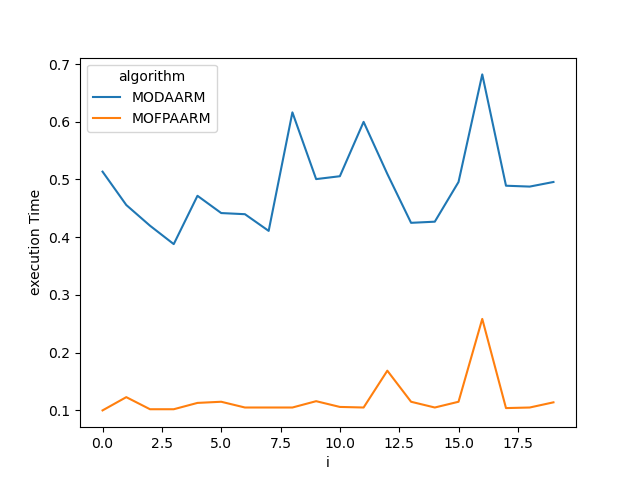
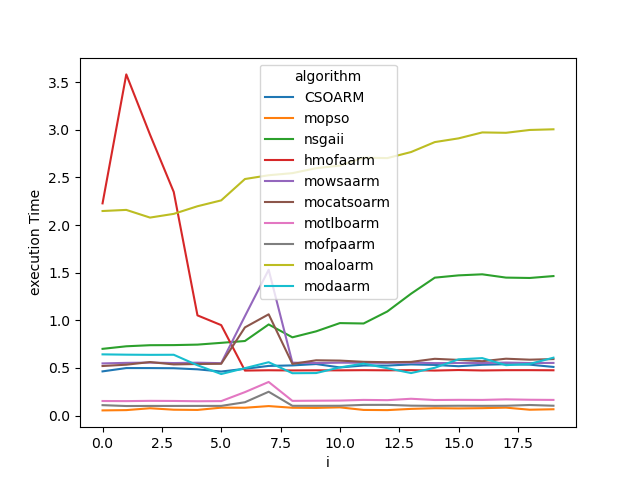
change example figure

diff --git a/main.py b/main.py
@@ -19,8 +19,8 @@ nbIteration = 20
 populationSize = 200
 objectiveNames = ['support','confidence','klosgen']
 criterionList = ['scores','execution time']
-algorithmNameList = ['MODAARM','MOFPAARM']
-#algorithmNameList = ['CSOARM','mopso','nsgaii','hmofaarm','mowsaarm','mocatsoarm','motlboarm']
+#algorithmNameList = ['MODAARM','MOFPAARM']
+algorithmNameList = ['CSOARM','mopso','nsgaii','hmofaarm','mowsaarm','mocatsoarm','motlboarm','mofpaarm','moaloarm','modaarm']
 
 perf = Performances(algorithmNameList,criterionList,objectiveNames)
 data = pd.read_csv('Data/congress.csv')
@@ -38,8 +38,8 @@ mofpaarm = MOFPAARM(data.shape[1],populationSize,nbIteration,len(objectiveNames)
 moaloarm = MOALOARM(data.shape[1],populationSize,nbIteration,len(objectiveNames),objectiveNames,data,save=True,display=False,path='Figures/MOALOARM/')
 modaarm = MODAARM(data.shape[1],populationSize,nbIteration,len(objectiveNames),objectiveNames,data,save=True,display=False,path='Figures/MODAARM/')
 
-#algorithmList = [csoarm,mopso,nsgaii,hmofaarm,mowsaarm,mocatsoarm,motlboarm]
-algorithmList = [modaarm,mofpaarm]
+algorithmList = [csoarm,mopso,nsgaii,hmofaarm,mowsaarm,mocatsoarm,motlboarm,mofpaarm,moaloarm,modaarm]
+#algorithmList = [modaarm,mofpaarm]
 for i in range(nbIteration):
     k = 0
     for alg in algorithmList:
@@ -49,11 +49,11 @@ for i in range(nbIteration):
         print(algorithmNameList[k])
         print(alg.fitness.paretoFront)
         k+=1
-    graph = Graphs(objectiveNames,perf.scores,path='./Figures/Comparison/paretoFront'+str(i),display=False)
+    graph = Graphs(objectiveNames,perf.scores,path='./Figures/Comparison/paretoFront'+str(i),display=True)
     graph.GraphScores()
     perf.UpdateLeaderBoard()
     perf.FreeScores()
-graph = Graphs(['execution Time'],perf.executionTime,path='./Figures/Comparison/execution_time')
+graph = Graphs(['execution Time'],perf.executionTime,path='./Figures/Comparison/execution_time',display=True)
 graph.GraphExecutionTime()
 
 
